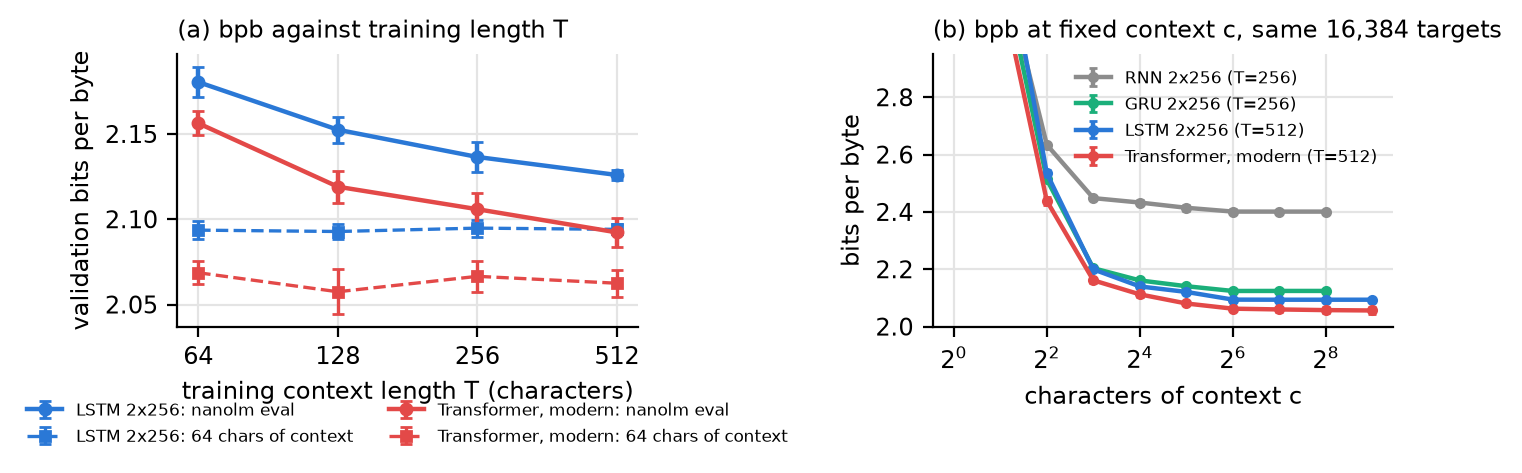
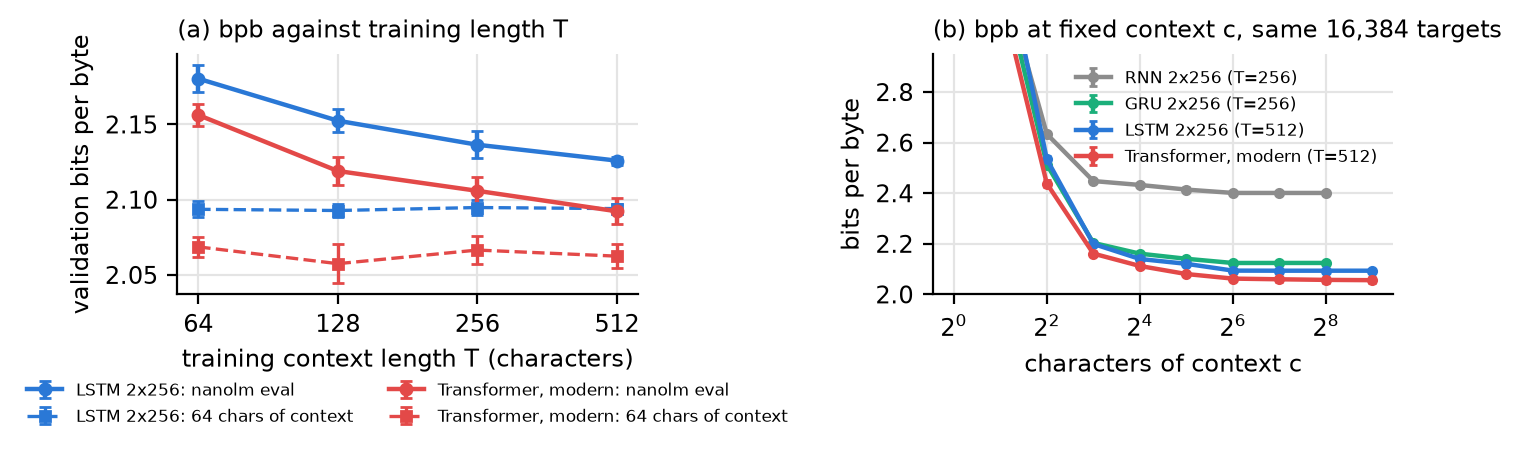
Judge the context study against its own noise floor and record every package version

diff --git a/analysis/summarize.py b/analysis/summarize.py
@@ -189,6 +189,10 @@ def main():
     out["curve_minimum"] = {n: {"tokens": c["tokens"][int(np.argmin(c["mean"]))], "bpb": float(min(c["mean"])),
                                 "final": c["mean"][-1]} for n, c in out["curves"].items()}
     drop = vals(lambda n, s: metrics("lstm512_dropout", n, s)["val_bpb"], ("lstm_512_drop0.2", "lstm_512_drop0.3"))
+    out["lstm512_two_seed"] = {"drop0.3": float(np.mean([metrics("lstm512_dropout", "lstm_512_drop0.3", s)["val_bpb"]
+                                                         for s in (1337, 42)])),
+                               "lr0.5x": float(np.mean([metrics("lr_check", "lstm_512_lr0.5x", s)["val_bpb"]
+                                                        for s in (1337, 42)]))}
     out["dropout"] = {n: {**describe(v), "vs_lstm_512": paired(bpb["lstm_512"], v),
                           "vs_lstm": paired(bpb["lstm"], v)} for n, v in drop.items()}
     ctx = {}
@@ -200,6 +204,8 @@ def main():
     ctx["gpt_minus_lstm"] = {T: paired(np.array([ctx_metrics("lstm", T, s)["val_bpb"] for s in SEEDS]),
                                        np.array([ctx_metrics("gpt_modern", T, s)["val_bpb"] for s in SEEDS]))
                              for T in CONTEXT_T}
+    ctx["noise_floor"] = float(np.median([np.std([ctx_metrics(a, T, s)["val_bpb"] for s in SEEDS], ddof=1)
+                                          for a in ("lstm", "gpt_modern") for T in CONTEXT_T]))
     out["context"] = ctx
     lr = {}
     for n in CHAR_MODELS:                      # 2-seed means; None = the run diverged (no metrics.json)

diff --git a/analysis/figures.py b/analysis/figures.py
@@ -111,7 +111,7 @@ def context(S):
     ax.set_xticklabels([str(T) for T in Ts])
     ax.set_xlabel("training context length T (characters)")
     ax.set_ylabel("validation bits per byte")
-    ax.legend(fontsize=6.3, loc="upper center", bbox_to_anchor=(0.5, -0.22), ncol=2)
+    ax.legend(fontsize=6.3, loc="upper center", bbox_to_anchor=(0.5, -0.3), ncol=2)
     ax.set_title("(a) bpb against training length T", loc="left", fontsize=8.5)
     ax = axes[1]
     for n, lab in (("rnn", "RNN 2x256 (T=256)"), ("gru", "GRU 2x256 (T=256)"),

diff --git a/README.md b/README.md
@@ -11,7 +11,7 @@ All training uses [nanolm](https://github.com/lkk688/DeepDataMiningLearning/tree
 
 ## Results
 
-All results are validation bits per byte (bpb; lower is better), as mean ± std over 5 seeds. Every model is trained on the same 16.4M characters (2000 steps × 32 × 256).
+All results are validation bits per byte (bpb; lower is better), as mean ± std over 5 seeds. Every model is trained on the same 16.4M characters (2000 steps × 8,192 characters: 32 windows of 256, or 8,192/T windows of length T in the `context` sweep).
 
 | model | parameters | bpb, nanolm learning rate | bpb, best learning rate (fresh seeds) |
 |---|---:|---:|---:|
@@ -24,14 +24,14 @@ All results are validation bits per byte (bpb; lower is better), as mean ± std 
 | Transformer, modern | 3,162,624 | 2.106 ± 0.010 | 2.115 ± 0.007 (2×) |
 
 - **Reproduction.** At nanolm's own settings, the first two seeds (1337, 42) reproduce the published table of nanolm's tutorial to within 0.01 bpb for each of its six models; the largest difference is 0.009, for the 2×512 LSTM.
-- **Robustness of the ranking.** The ranking of the top three models depends on the learning rate.
-  - At nanolm's learning rates, the modern Transformer is best.
-  - At each model's best learning rate from a grid of multiples of nanolm's rate (0.5× to 8× for most models, 0.25× to 2× for the 2×512 LSTM, up to 16× for the 2×256 LSTM; chosen on two seeds, then re-measured on five fresh seeds), the LSTM and GRU are 0.013 and 0.011 bpb lower than the modern Transformer. Neither difference is resolved (paired p = 0.10 and 0.06).
+- **Robustness of the ranking.** The modern Transformer's lead depends on the learning rate.
+  - At nanolm's learning rates, the modern Transformer is best, ahead of the LSTM (paired p = 0.018) and the GRU (p = 0.0003).
+  - At each model's best learning rate from a grid of multiples of nanolm's rate (0.5× to 8× for most models, 0.25× to 2× for the 2×512 LSTM, up to 16× for the 2×256 LSTM; chosen on two seeds, then re-measured on five fresh seeds), the LSTM and GRU are 0.013 and 0.011 bpb lower than the modern Transformer. Neither difference is resolved (paired p = 0.10 and 0.06), so at the best learning rates the order of the top three is open.
 - **What holds at either learning rate:**
-  - The vanilla RNN is last.
+  - The 2×256 vanilla RNN is last.
   - A gap of between 0.058 and 0.085 bpb to the GRU and the LSTM remains even when the RNN has as many parameters as the LSTM (RNN 2×512; paired p ≤ 0.0002 at both learning-rate settings).
   - The modern Transformer beats the GPT-2-style one.
-- **The larger LSTM overfits.** At nanolm's settings, the 2×512 LSTM reaches its best validation bpb (2.130) after 8.2M characters and then gets worse. Its gap between training and validation bpb is 0.77, against 0.35 for the 2×256 LSTM. With dropout 0.3 instead of 0.1 it reaches 2.072, below every model at nanolm's dropout (only this model's dropout was varied).
+- **The larger LSTM overfits.** At nanolm's settings, the 2×512 LSTM reaches its best validation bpb (2.130) after 8.2M characters and then gets worse. Its gap between training and validation bpb is 0.77, against 0.35 for the 2×256 LSTM. With dropout 0.3 instead of 0.1 it reaches 2.072, below every model at nanolm's dropout (only this model's dropout was varied, over 0.2 and 0.3, on the same seeds and validation split, so 2.072 is slightly optimistic).
 - **Context.** Scored on the same 16,384 characters with a fixed amount of context, every model gets almost all of its gain from context within the first 64 characters.
   - From 64 to 512 characters, the LSTM gains 0.0004 bpb and the modern Transformer 0.006.
   - The usual "bpb against training length T" curve falls mainly because evaluation windows of length T start with no context. At 64 characters of context, the difference between models trained on windows of 64 and 512 characters is not resolved (paired p = 0.85 for the LSTM, 0.32 for the modern Transformer).
@@ -50,7 +50,7 @@ All results are validation bits per byte (bpb; lower is better), as mean ± std 
 | `runs/sweeps/<sweep>/<run>_s<seed>/` | nanolm's record of every run: `config.yaml`, `meta.json` (git commit, device, command), `train_log.jsonl`, `eval_log.jsonl`, `metrics.json`, `sample.txt`, `stdout.log` (no checkpoints; the two diverged runs, `lr_check/gru_lr8x_s*`, have no `metrics.json` or `sample.txt`) |
 | `runs/sweeps/<sweep>/summary.{csv,md}`, `curves.png`, `bars.png`, `analyze_stdout.txt`, `sweep.yaml` | `python -m nanolm.analyze` output per sweep and its printed table, and the sweep file as nanolm.sweep copied it |
 | `analysis/` | analysis scripts (see below) and the gate-by-gate GRU (`gru_scratch.py`) |
-| `results/` | every analysis output as JSON; `summary.json` holds the numbers quoted above |
+| `results/` | every analysis output as JSON, and `environment.txt` (machine and package versions); `summary.json` holds the numbers quoted above |
 | `figures/` | all figures |
 | `tests/` | checks that `GRUScratch` matches `torch.nn.GRU` |
 
@@ -61,7 +61,7 @@ Requires Python 3.10 or later and one NVIDIA GPU. Training used one RTX 3090 wit
 ```bash
 bash scripts/setup.sh          # clone nanolm at commit 8418fc1 into external/, install requirements
 bash scripts/run_sweeps.sh     # train every run (finished runs are skipped), then nanolm.analyze per sweep
-bash scripts/run_analysis.sh   # GPU analyses that need the checkpoints -> results/*.json, attention maps
+bash scripts/run_analysis.sh   # analyses of the trained runs (GPU), the GRU check and tests -> results/*.json, attention maps
 source scripts/env.sh
 python analysis/summarize.py        # results/summary.json (no GPU)
 python analysis/figures.py          # figures/*.png except attention_*.png (no GPU)
@@ -88,4 +88,4 @@ python analysis/figures.py          # figures/*.png except attention_*.png (no G
 - **Data.** Tiny Shakespeare is a single 1.1M-character corpus with one validation split (its last 10%). The learning rates in `char_models_tuned` were chosen on that same split, which may flatter the tuned numbers slightly.
 - **Tuning.** Only the learning rate was tuned. Dropout and weight decay keep nanolm's per-architecture values, and dropout 0.3 helped the 2×512 LSTM by more than any learning rate.
 - **Scope.** All conclusions are at a budget of 16.4M characters and models of 0.28M to 4.24M parameters.
-- **Statistics.** p-values are paired t-tests over 5 seeds, with no correction for multiple comparisons.
+- **Statistics.** p-values are paired t-tests over 5 seeds. They are not corrected for multiple comparisons, except the Holm-adjusted values (`p_holm` in `results/summary.json`) for the six comparisons with the GPT-2-style Transformer, under which the 2×512 RNN and 2×512 LSTM differences are no longer below 0.05.
